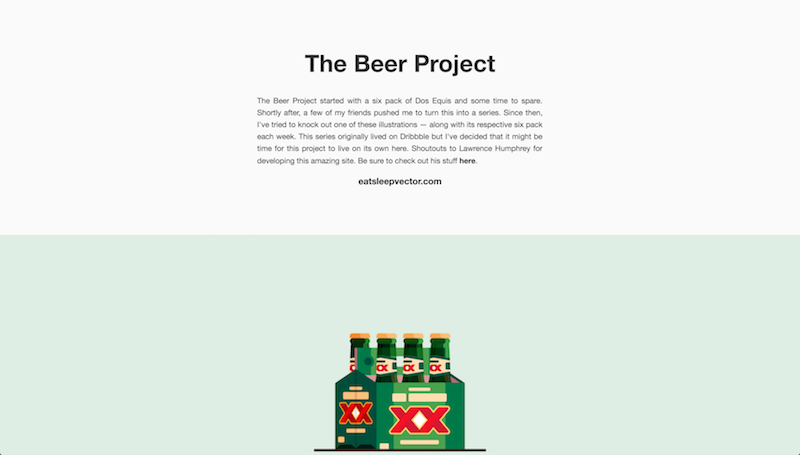
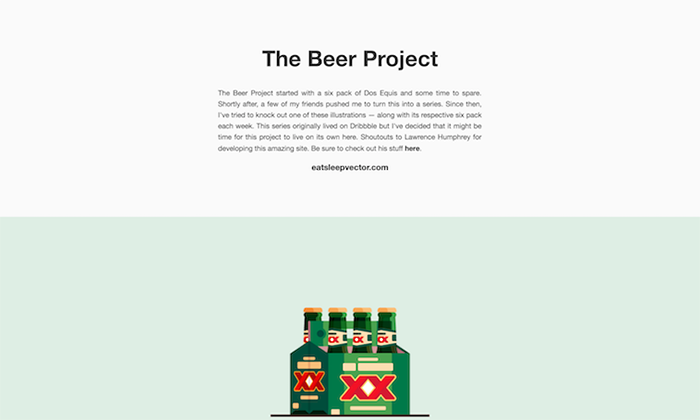
landing images responsive heights

Changed region(s): [[0.3, 0.2167, 0.69, 0.4024], [0.39, 0.7429, 0.6, 0.9905], [0.36, 0.1238, 0.63, 0.1857]]

diff --git a/dist/css/all.min.css b/dist/css/all.min.css
@@ -1,1 +1,1 @@
-/*! normalize.css v3.0.3 | MIT License | github.com/necolas/normalize.css */html{font-family:sans-serif;-ms-text-size-adjust:100%;-webkit-text-size-adjust:100%}body{margin:0}article,aside,details,figcaption,figure,footer,header,hgroup,main,menu,nav,section,summary{display:block}audio,canvas,progress,video{display:inline-block;vertical-align:baseline}audio:not([controls]){display:none;height:0}[hidden],template{display:none}a{background-color:transparent}a:active,a:hover{outline:0}abbr[title]{border-bottom:1px dotted}b,strong{font-weight:700}dfn{font-style:italic}h1{font-size:2em;margin:.67em 0}mark{background:#ff0;color:#000}small{font-size:80%}sub,sup{font-size:75%;line-height:0;position:relative;vertical-align:baseline}sup{top:-.5em}sub{bottom:-.25em}img{border:0}svg:not(:root){overflow:hidden}figure{margin:1em 40px}hr{box-sizing:content-box;height:0}pre{overflow:auto}code,kbd,pre,samp{font-family:monospace;font-size:1em}button,input,optgroup,select,textarea{color:inherit;font:inherit;margin:0}button{overflow:visible}button,select{text-transform:none}button,html input[type=button],input[type=reset],input[type=submit]{-webkit-appearance:button;cursor:pointer}button[disabled],html input[disabled]{cursor:default}button::-moz-focus-inner,input::-moz-focus-inner{border:0;padding:0}input{line-height:normal}input[type=checkbox],input[type=radio]{box-sizing:border-box;padding:0}input[type=number]::-webkit-inner-spin-button,input[type=number]::-webkit-outer-spin-button{height:auto}input[type=search]{-webkit-appearance:textfield;box-sizing:content-box}input[type=search]::-webkit-search-cancel-button,input[type=search]::-webkit-search-decoration{-webkit-appearance:none}fieldset{border:1px solid silver;margin:0 2px;padding:.35em .625em .75em}legend{border:0;padding:0}textarea{overflow:auto}optgroup{font-weight:700}table{border-collapse:collapse;border-spacing:0}td,th{padding:0}html{font-size:62.5%}body{font-size:1.6rem;line-height:2.56rem;overflow-x:hidden;text-rendering:optimizeLegibility;width:100vw}body,html{border:none}body,h1,h2,h3,h4,h5,h6,html,p{margin:0;padding:0}h1{line-height:1.3}h1,h2{font-family:Montserrat,Arial,sans-serif}h3{font-family:Hind,Arial,sans-serif;text-transform:uppercase}h4{color:hsla(0,0%,100%,.8);font-family:Montserrat,Arial,sans-serif}p{font-family:Hind,sans-serif;font-weight:300}a{border-bottom:1px solid rgba(255,82,82,0);color:#212121;text-decoration:none;transition:border-bottom .3s ease-in-out}ul{list-style:none;margin:0;padding:0}button{border:none;background-color:#fff}button::-moz-focus-inner{border:0}button:focus{outline:none}article{margin:0;padding:0}.body-wrapper{height:100%;min-height:100vh;min-width:100vw;overflow-x:hidden;overflow-y:hidden;-webkit-overflow-scrolling:touch;position:relative;width:100%}.body-wrapper>*{height:100%;left:0;overflow:auto;position:absolute;top:0;width:100%}.body-wrapper.scroll{overflow-y:auto}.accent{border-bottom:1px solid rgba(255,82,82,0);color:#ff5252;transition:border-bottom .3s ease-in-out}.accent:hover{border-bottom:1px solid #ff5252}.justify{text-align:justify}.hidden{display:none;opacity:0}.show{display:block;opacity:1}@-webkit-keyframes a{0%{display:none;opacity:0}1%{display:block}to{opacity:1}}@keyframes a{0%{display:none;opacity:0}1%{display:block}to{opacity:1}}@-webkit-keyframes b{0%{display:block;opacity:1}99%{opacity:0}to{display:none}}@keyframes b{0%{display:block;opacity:1}99%{opacity:0}to{display:none}}.fadeIn{-webkit-animation:a .5s ease-in-out;animation:a .5s ease-in-out;animation-fill-mode:forwards}.fadeIn,.fadeOut{-webkit-animation-fill-mode:forwards}.fadeOut{-webkit-animation:b .3s ease-out;animation:b .3s ease-out;animation-fill-mode:forwards}@media only screen and (max-width:1600px){html{font-size:52.5%}}@media only screen and (max-width:1200px){html{font-size:48.5%}}@media only screen and (max-width:992px){html{font-size:52.5%}}@media only screen and (max-width:768px){html{font-size:52.5%}}@media only screen and (max-width:480px){html{font-size:52.5%}}@media only screen and (min-device-width:320px) and (max-device-width:480px){html{font-size:52.5%}}.home{height:100%;overflow:hidden;margin:0;padding:0;width:100%}.me{background-color:#fff;color:#455a64;display:-webkit-flex;display:-ms-flexbox;display:flex;-webkit-flex-flow:column nowrap;-ms-flex-flow:column nowrap;flex-flow:column;-webkit-justify-content:center;-ms-flex-pack:center;justify-content:center;opacity:0;text-align:center;transition:opacity .3s ease-out;width:45%;will-change:opacity}.me>:not(.cta){margin:0 auto;max-width:60rem;width:90%}.me .elevate{padding-top:7vh}.me img{border-radius:50%;height:20rem;transition:height .3s ease-in-out,width .3s ease-in-out;transition-delay:.1s;width:20rem}.me .shrink{height:15rem;width:15rem}.me .blurb{margin-top:1.4rem;transition:opacity .4s ease-in-out}.me .blurb h2{margin:2rem 0 1.2rem}.me a:not(.cta){color:#ff5252}.me a:not(.cta):not(.link):hover{border-bottom:1px solid #ff5252}.interest{cursor:pointer}.link{text-decoration:none;transition:color .3s ease-in-out}.link:hover i{color:#ff5252}@media all and (max-width:768px){.me{margin:10% 0;width:100%}}@media all and (max-width:480px){.me img{height:15rem;width:15rem}}.portfolio{overflow:auto;position:relative;width:55%}.portfolio figure{color:#fff;cursor:pointer;height:51rem;margin:0;overflow:hidden;padding:0;position:relative;text-align:center;transition:height .3s ease-out;width:100%}.portfolio figure:before{background-color:transparent;content:'';height:100%;left:0;pointer-events:none;position:absolute;transition:background-color .3s ease-out;top:0;width:100%}.portfolio figure:hover figcaption{opacity:1;-webkit-transform:translate(-50%,-50%);transform:translate(-50%,-50%)}.portfolio .illicit:hover:before{background-color:#000}.portfolio .nowplaying:hover:before{background-color:#2185c5}.portfolio .map:hover:before{background-color:#f7685c}.portfolio .meme:hover:before{background-color:#e7c824}.portfolio .natalie:hover:before{background-color:#777}.portfolio .brewskies:hover:before{background-color:#007949}.portfolio .maelstrom:hover:before{background-color:#41d6c3}.portfolio .frank:hover:before{background-color:#000}.portfolio .mcplanr:hover:before{background-color:#c64747}.portfolio .neutral:hover:before{background-color:#f2d81c}.portfolio .oldsite:hover:before{background-color:#c2c388}.portfolio figcaption{left:50%;opacity:0;pointer-events:none;position:absolute;top:50%;-webkit-transform:translate(-50%,-35%);transform:translate(-50%,-35%);transition:opacity .3s ease-out,-webkit-transform .3s ease-out;transition:opacity .3s ease-out,transform .3s ease-out;transition:opacity .3s ease-out,transform .3s ease-out,-webkit-transform .3s ease-out}.portfolio img{height:100%;min-height:100%;transition:all .4s ease-out;width:100%}@media all and (max-width:1600px){.portfolio figure{height:51rem}}@media all and (max-width:1200px){.portfolio figure{height:46rem}}@media all and (max-width:768px){.portfolio{width:100%}.portfolio figure{height:44rem}}@media all and (max-width:480px){.portfolio figure{height:33rem}}@media all and (max-width:320px){.portfolio figure{height:31rem}}@-webkit-keyframes c{0%{background-color:#ff5252;box-shadow:0 .2rem .5rem 0 rgba(0,0,0,.26);color:#fff}to{background-color:#fff;box-shadow:none;color:#ff5252}}@keyframes c{0%{background-color:#ff5252;box-shadow:0 .2rem .5rem 0 rgba(0,0,0,.26);color:#fff}to{background-color:#fff;box-shadow:none;color:#ff5252}}.cta{background-color:#ff5252;border-radius:.2rem;box-shadow:0 .2rem .5rem 0 rgba(0,0,0,.26);color:#fff;display:inline-block;font-family:Hind,sans-serif;margin:2.2rem auto 0;max-width:12rem;overflow:hidden;padding:2rem;text-decoration:none;text-transform:uppercase;transition:width .8s ease-in-out,box-shadow .4s ease-out,background-color .3s ease-out;white-space:nowrap}.cta.flat{-webkit-animation:c .8s;animation:c .8s;-webkit-animation-fill-mode:forwards;animation-fill-mode:forwards}.cta:hover{background-color:#e54a4a;box-shadow:0 .6rem .7rem 0 rgba(0,0,0,.26)}.me .links{margin:3rem auto 0}.me .links a:not(:last-child){margin-right:.8rem}.me .links i{color:#455a64}@media only screen and (min-device-width:320px) and (max-device-width:480px){.me .links a{font-size:115%}.me .links a:not(:last-child){margin-right:1.8rem}}.project-page-wrapper{background-color:#fff;height:auto;left:0;min-height:100vh;overflow:scroll;position:absolute;-webkit-transform:translateX(100%);transform:translateX(100%);transition:-webkit-transform .5s cubic-bezier(.465,.183,.153,.946);transition:transform .5s cubic-bezier(.465,.183,.153,.946);transition:transform .5s cubic-bezier(.465,.183,.153,.946),-webkit-transform .5s cubic-bezier(.465,.183,.153,.946);top:0;width:100%;will-change:transform;z-index:3}.project-page-wrapper.show{-webkit-transform:translateX(0);transform:translateX(0)}.project-page-wrapper.hide{-webkit-transform:translateX(100%);transform:translateX(100%)}.project-page-wrapper a:hover{border-bottom:1px solid #212121}.project-page-wrapper .back i{-webkit-transform:translateX(0);transform:translateX(0);transition:all 3s ease-out}.project-page-wrapper .back:hover i{-webkit-transform:translateX(-5px);transform:translateX(-5px)}.project-page{background-color:#fff;border-radius:.2rem;margin:0 auto;margin-top:1rem;max-width:130rem;padding:.5rem 0;width:100%}.dropdown:hover li:nth-of-type(1),.dropdown h4:hover li:nth-of-type(1){-webkit-animation:.15s ease-out .05s a;animation:.15s ease-out .05s a;-webkit-animation-fill-mode:forwards;animation-fill-mode:forwards}.dropdown:hover li:nth-of-type(2),.dropdown h4:hover li:nth-of-type(2){-webkit-animation:.15s ease-out .08s a;animation:.15s ease-out .08s a;-webkit-animation-fill-mode:forwards;animation-fill-mode:forwards}.dropdown:hover li:nth-of-type(3),.dropdown h4:hover li:nth-of-type(3){-webkit-animation:.15s ease-out .11s a;animation:.15s ease-out .11s a;-webkit-animation-fill-mode:forwards;animation-fill-mode:forwards}.dropdown:hover li:nth-of-type(4),.dropdown h4:hover li:nth-of-type(4){-webkit-animation:.15s ease-out .14s a;animation:.15s ease-out .14s a;-webkit-animation-fill-mode:forwards;animation-fill-mode:forwards}.dropdown:hover li:nth-of-type(5),.dropdown h4:hover li:nth-of-type(5){-webkit-animation:.15s ease-out .17s a;animation:.15s ease-out .17s a;-webkit-animation-fill-mode:forwards;animation-fill-mode:forwards}.dropdown:hover li:nth-of-type(6),.dropdown h4:hover li:nth-of-type(6){-webkit-animation:.15s ease-out .2s a;animation:.15s ease-out .2s a;-webkit-animation-fill-mode:forwards;animation-fill-mode:forwards}.dropdown:hover li:nth-of-type(7),.dropdown h4:hover li:nth-of-type(7){-webkit-animation:.15s ease-out .23s a;animation:.15s ease-out .23s a;-webkit-animation-fill-mode:forwards;animation-fill-mode:forwards}.dropdown:hover li:nth-of-type(8),.dropdown h4:hover li:nth-of-type(8){-webkit-animation:.15s ease-out .26s a;animation:.15s ease-out .26s a;-webkit-animation-fill-mode:forwards;animation-fill-mode:forwards}.dropdown:hover li:nth-of-type(9),.dropdown h4:hover li:nth-of-type(9){-webkit-animation:.15s ease-out .29s a;animation:.15s ease-out .29s a;-webkit-animation-fill-mode:forwards;animation-fill-mode:forwards}.top-bar{display:-webkit-flex;display:-ms-flexbox;display:flex;-webkit-flex-flow:row nowrap;-ms-flex-flow:row nowrap;flex-flow:row;margin:3rem auto 2rem;max-width:120rem;width:90%}.top-bar>div{-webkit-flex:1 0 auto;-ms-flex:1 0 auto;flex:1 0 auto}.top-bar .left button{padding-left:0}.top-bar .right{text-align:right}.top-bar i:not(.fa-angle-down){cursor:pointer;margin-left:1rem;transition:color .2s ease-out}.top-bar i:not(.fa-angle-down):not(.arrow){color:#ccc}.top-bar i:not(.fa-angle-down).selected{color:#333}.top-bar i:not(.fa-angle-down):hover{color:#444}@media screen and (max-width:900.4px){[data-device=tablet]{display:none}}@media screen and (max-width:1118px){[data-device=laptop]{display:none}}.dropdown{box-shadow:0 6px 12px transparent,0 10px 40px transparent;cursor:pointer;display:block;left:50%;margin:0;margin-top:-1.2rem;max-width:30rem;padding:1.2rem 2.4rem;position:absolute;-webkit-transform:translateX(-50%);transform:translateX(-50%);transition:box-shadow .25s ease-out;text-align:center;width:55%;z-index:3}.dropdown h4{color:#333}.dropdown ul{display:none;left:50%;margin:0 auto;padding:0;position:relative;top:0;-webkit-transform:translateX(-50%);transform:translateX(-50%);width:100%}.dropdown li{background-color:#fff;opacity:0;padding:1.2rem 0;width:100%}.dropdown .fa{transition:all .1s}.dropdown:hover{background-color:#fff;box-shadow:0 6px 12px rgba(0,0,0,.23),0 10px 40px rgba(0,0,0,.19)}.dropdown:hover ul{display:block}.dropdown:hover .fa-angle-down{-webkit-transform:rotate(-180deg);transform:rotate(-180deg)}.dropdown [data-project]:hover{color:#f5f5f5}.dropdown [data-project=illicit]:hover{background-color:#000}.dropdown [data-project=nowplaying]:hover{background-color:#2185c5}.dropdown [data-project=map]:hover{background-color:#f7685c}.dropdown [data-project=meme]:hover{background-color:#e7c824}.dropdown [data-project=natalie]:hover{background-color:#777}.dropdown [data-project=brewskies]:hover{background-color:#007949}.dropdown [data-project=maelstrom]:hover{background-color:#41d6c3}.dropdown [data-project=frank]:hover{background-color:#000}.dropdown [data-project=mcplanr]:hover{background-color:#c64747}.dropdown [data-project=neutral]:hover{background-color:#f2d81c}.dropdown [data-project=oldsite]:hover{background-color:#c2c388}.iframe-container{display:-webkit-flex;display:-ms-flexbox;display:flex;-webkit-flex-flow:row wrap-reverse;-ms-flex-flow:row wrap-reverse;flex-flow:row wrap-reverse;-webkit-justify-content:center;-ms-flex-pack:center;justify-content:center}.iframe-container>*{-webkit-flex:initial;-ms-flex:initial;flex:initial}.iframe-container .other-sites{color:#ccc}.iframe-container .site{cursor:pointer;margin-bottom:1rem;transition:color .2s ease-out}.iframe-container .selected,.iframe-container .site:hover{color:#333}.container{box-shadow:0 3px 12px rgba(0,0,0,.23),0 3px 12px rgba(0,0,0,.16);margin-top:2rem;opacity:0;overflow:initial;padding-bottom:5rem;-webkit-transform:translateY(20px);transform:translateY(20px);transition:opacity .4s ease-out,width .3s ease-out,-webkit-transform .4s ease-out;transition:opacity .4s ease-out,transform .4s ease-out,width .3s ease-out;transition:opacity .4s ease-out,transform .4s ease-out,width .3s ease-out,-webkit-transform .4s ease-out;width:80%;will-change:opacity,transform}.container.active{opacity:1;-webkit-transform:translateY(0);transform:translateY(0);transition:opacity .4s ease-out .93s,width .3s ease-out,-webkit-transform .4s ease-out .93s;transition:opacity .4s ease-out .93s,transform .4s ease-out .93s,width .3s ease-out;transition:opacity .4s ease-out .93s,transform .4s ease-out .93s,width .3s ease-out,-webkit-transform .4s ease-out .93s}.container.phone{width:306px;height:544px}.container.tablet{width:870.4px;height:652.8px}.container.laptop{width:1088px;height:612px}.container.desktop{width:1600px;height:900px}.address-container{-webkit-align-content:center;-ms-flex-line-pack:center;align-content:center;-webkit-align-items:center;-ms-flex-align:center;align-items:center;background:#f5f5f5;box-shadow:0 1px 3px 0 rgba(0,0,0,.25),0 0 5px 0 rgba(0,0,0,.2);display:-webkit-flex;display:-ms-flexbox;display:flex;padding-left:1rem;position:relative;height:5rem;width:calc(100% - 1rem);z-index:1}.address{border:none;border-radius:2px;box-shadow:0 2px 2px 0 rgba(0,0,0,.15),0 3px 1px -2px rgba(0,0,0,.2),0 1px 5px 0 rgba(0,0,0,.1);font-family:Roboto,Helvetica Neue,Helvetica,sans-serif;font-size:1.5rem;height:3rem;outline:0;padding:0 .5rem;transition:.25s cubic-bezier(.2,.2,.2,1);width:calc(100% - 8rem);z-index:2}.address:focus{box-shadow:0 3px 4px 0 rgba(0,0,0,.15),0 3px 3px -2px rgba(0,0,0,.2),0 1px 8px 0 rgba(0,0,0,.1);outline:none}.scroll-wrapper{height:100%;margin:0;-webkit-overflow-scrolling:touch;padding:0;width:100%}iframe{height:100%;max-width:100%;width:100%}.descriptions{margin:7rem auto 10rem;max-width:600px;text-align:center;width:75%}.descriptions h2{margin-bottom:1rem}.descriptions p{line-height:1.7}.descriptions a{font-weight:500}.descriptions .left,.descriptions .right{display:inline-block;vertical-align:top;width:48%}.descriptions .left{margin-right:2%;text-align:right}.descriptions .right{text-align:left}.descriptions .full-site{padding-bottom:3px}.descriptions .illicit .full-site{color:#000}.descriptions .illicit .full-site:hover{border-bottom:1px solid #000}.descriptions .nowplaying .full-site{color:#2185c5}.descriptions .nowplaying .full-site:hover{border-bottom:1px solid #2185c5}.descriptions .map .full-site{color:#f7685c}.descriptions .map .full-site:hover{border-bottom:1px solid #f7685c}.descriptions .meme .full-site{color:#e7c824}.descriptions .meme .full-site:hover{border-bottom:1px solid #e7c824}.descriptions .natalie .full-site{color:#777}.descriptions .natalie .full-site:hover{border-bottom:1px solid #777}.descriptions .brewskies .full-site{color:#007949}.descriptions .brewskies .full-site:hover{border-bottom:1px solid #007949}.descriptions .maelstrom .full-site{color:#41d6c3}.descriptions .maelstrom .full-site:hover{border-bottom:1px solid #41d6c3}.descriptions .frank .full-site{color:#000}.descriptions .frank .full-site:hover{border-bottom:1px solid #000}.descriptions .mcplanr .full-site{color:#c64747}.descriptions .mcplanr .full-site:hover{border-bottom:1px solid #c64747}.descriptions .neutral .full-site{color:#f2d81c}.descriptions .neutral .full-site:hover{border-bottom:1px solid #f2d81c}.descriptions .oldsite .full-site{color:#c2c388}.descriptions .oldsite .full-site:hover{border-bottom:1px solid #c2c388}.summary{opacity:.7}.contributors{width:100%}.contributors li{font-weight:lighter}.home>section{float:left;height:100vh}@media all and (max-width:767px){.home{overflow:auto}.home>section{display:block;float:none;height:auto;width:100%}}
+/*! normalize.css v3.0.3 | MIT License | github.com/necolas/normalize.css */html{font-family:sans-serif;-ms-text-size-adjust:100%;-webkit-text-size-adjust:100%}body{margin:0}article,aside,details,figcaption,figure,footer,header,hgroup,main,menu,nav,section,summary{display:block}audio,canvas,progress,video{display:inline-block;vertical-align:baseline}audio:not([controls]){display:none;height:0}[hidden],template{display:none}a{background-color:transparent}a:active,a:hover{outline:0}abbr[title]{border-bottom:1px dotted}b,strong{font-weight:700}dfn{font-style:italic}h1{font-size:2em;margin:.67em 0}mark{background:#ff0;color:#000}small{font-size:80%}sub,sup{font-size:75%;line-height:0;position:relative;vertical-align:baseline}sup{top:-.5em}sub{bottom:-.25em}img{border:0}svg:not(:root){overflow:hidden}figure{margin:1em 40px}hr{box-sizing:content-box;height:0}pre{overflow:auto}code,kbd,pre,samp{font-family:monospace;font-size:1em}button,input,optgroup,select,textarea{color:inherit;font:inherit;margin:0}button{overflow:visible}button,select{text-transform:none}button,html input[type=button],input[type=reset],input[type=submit]{-webkit-appearance:button;cursor:pointer}button[disabled],html input[disabled]{cursor:default}button::-moz-focus-inner,input::-moz-focus-inner{border:0;padding:0}input{line-height:normal}input[type=checkbox],input[type=radio]{box-sizing:border-box;padding:0}input[type=number]::-webkit-inner-spin-button,input[type=number]::-webkit-outer-spin-button{height:auto}input[type=search]{-webkit-appearance:textfield;box-sizing:content-box}input[type=search]::-webkit-search-cancel-button,input[type=search]::-webkit-search-decoration{-webkit-appearance:none}fieldset{border:1px solid silver;margin:0 2px;padding:.35em .625em .75em}legend{border:0;padding:0}textarea{overflow:auto}optgroup{font-weight:700}table{border-collapse:collapse;border-spacing:0}td,th{padding:0}html{font-size:62.5%}body{font-size:1.6rem;line-height:2.56rem;overflow-x:hidden;text-rendering:optimizeLegibility;width:100vw}body,html{border:none}body,h1,h2,h3,h4,h5,h6,html,p{margin:0;padding:0}h1{line-height:1.3}h1,h2{font-family:Montserrat,Arial,sans-serif}h3{font-family:Hind,Arial,sans-serif;text-transform:uppercase}h4{color:hsla(0,0%,100%,.8);font-family:Montserrat,Arial,sans-serif}p{font-family:Hind,sans-serif;font-weight:300}a{border-bottom:1px solid rgba(255,82,82,0);color:#212121;text-decoration:none;transition:border-bottom .3s ease-in-out}ul{list-style:none;margin:0;padding:0}button{border:none;background-color:#fff}button::-moz-focus-inner{border:0}button:focus{outline:none}article{margin:0;padding:0}.body-wrapper{height:100%;min-height:100vh;min-width:100vw;overflow-x:hidden;overflow-y:hidden;-webkit-overflow-scrolling:touch;position:relative;width:100%}.body-wrapper>*{height:100%;left:0;overflow:auto;position:absolute;top:0;width:100%}.body-wrapper.scroll{overflow-y:auto}.accent{border-bottom:1px solid rgba(255,82,82,0);color:#ff5252;transition:border-bottom .3s ease-in-out}.accent:hover{border-bottom:1px solid #ff5252}.justify{text-align:justify}.hidden{display:none;opacity:0}.show{display:block;opacity:1}@-webkit-keyframes a{0%{display:none;opacity:0}1%{display:block}to{opacity:1}}@keyframes a{0%{display:none;opacity:0}1%{display:block}to{opacity:1}}@-webkit-keyframes b{0%{display:block;opacity:1}99%{opacity:0}to{display:none}}@keyframes b{0%{display:block;opacity:1}99%{opacity:0}to{display:none}}.fadeIn{-webkit-animation:a .5s ease-in-out;animation:a .5s ease-in-out;animation-fill-mode:forwards}.fadeIn,.fadeOut{-webkit-animation-fill-mode:forwards}.fadeOut{-webkit-animation:b .3s ease-out;animation:b .3s ease-out;animation-fill-mode:forwards}@media only screen and (max-width:1600px){html{font-size:52.5%}}@media only screen and (max-width:1200px){html{font-size:48.5%}}@media only screen and (max-width:992px){html{font-size:52.5%}}@media only screen and (max-width:768px){html{font-size:52.5%}}@media only screen and (max-width:480px){html{font-size:52.5%}}@media only screen and (min-device-width:320px) and (max-device-width:480px){html{font-size:52.5%}}.home{height:100%;overflow:hidden;margin:0;padding:0;width:100%}.me{background-color:#fff;color:#455a64;display:-webkit-flex;display:-ms-flexbox;display:flex;-webkit-flex-flow:column nowrap;-ms-flex-flow:column nowrap;flex-flow:column;-webkit-justify-content:center;-ms-flex-pack:center;justify-content:center;opacity:0;text-align:center;transition:opacity .3s ease-out;width:45%;will-change:opacity}.me>:not(.cta){margin:0 auto;max-width:60rem;width:90%}.me .elevate{padding-top:7vh}.me img{border-radius:50%;height:20rem;transition:height .3s ease-in-out,width .3s ease-in-out;transition-delay:.1s;width:20rem}.me .shrink{height:15rem;width:15rem}.me .blurb{margin-top:1.4rem;transition:opacity .4s ease-in-out}.me .blurb h2{margin:2rem 0 1.2rem}.me a:not(.cta){color:#ff5252}.me a:not(.cta):not(.link):hover{border-bottom:1px solid #ff5252}.interest{cursor:pointer}.link{text-decoration:none;transition:color .3s ease-in-out}.link:hover i{color:#ff5252}@media all and (max-width:768px){.me{margin:10% 0;width:100%}}@media all and (max-width:480px){.me img{height:15rem;width:15rem}}.portfolio{overflow:auto;position:relative;width:55%}.portfolio figure{color:#fff;cursor:pointer;margin:-1rem 0 0;overflow:hidden;padding:0;position:relative;text-align:center;transition:height .3s ease-out;width:100%}.portfolio figure:before{background-color:transparent;content:'';height:100%;left:0;pointer-events:none;position:absolute;transition:background-color .3s ease-out;top:0;width:100%}.portfolio figure:hover figcaption{opacity:1;-webkit-transform:translate(-50%,-50%);transform:translate(-50%,-50%)}.portfolio .illicit:hover:before{background-color:#000}.portfolio .nowplaying:hover:before{background-color:#2185c5}.portfolio .map:hover:before{background-color:#f7685c}.portfolio .meme:hover:before{background-color:#e7c824}.portfolio .natalie:hover:before{background-color:#777}.portfolio .brewskies:hover:before{background-color:#007949}.portfolio .maelstrom:hover:before{background-color:#41d6c3}.portfolio .frank:hover:before{background-color:#000}.portfolio .mcplanr:hover:before{background-color:#c64747}.portfolio .neutral:hover:before{background-color:#f2d81c}.portfolio .oldsite:hover:before{background-color:#c2c388}.portfolio figcaption{left:50%;opacity:0;pointer-events:none;position:absolute;top:50%;-webkit-transform:translate(-50%,-35%);transform:translate(-50%,-35%);transition:opacity .3s ease-out,-webkit-transform .3s ease-out;transition:opacity .3s ease-out,transform .3s ease-out;transition:opacity .3s ease-out,transform .3s ease-out,-webkit-transform .3s ease-out}.portfolio img{display:block;height:100%;min-height:100%;transition:all .4s ease-out;vertical-align:top;width:100%}@media all and (max-width:768px){.portfolio{width:100%}}@-webkit-keyframes c{0%{background-color:#ff5252;box-shadow:0 .2rem .5rem 0 rgba(0,0,0,.26);color:#fff}to{background-color:#fff;box-shadow:none;color:#ff5252}}@keyframes c{0%{background-color:#ff5252;box-shadow:0 .2rem .5rem 0 rgba(0,0,0,.26);color:#fff}to{background-color:#fff;box-shadow:none;color:#ff5252}}.cta{background-color:#ff5252;border-radius:.2rem;box-shadow:0 .2rem .5rem 0 rgba(0,0,0,.26);color:#fff;display:inline-block;font-family:Hind,sans-serif;margin:2.2rem auto 0;max-width:12rem;overflow:hidden;padding:2rem;text-decoration:none;text-transform:uppercase;transition:width .8s ease-in-out,box-shadow .4s ease-out,background-color .3s ease-out;white-space:nowrap}.cta.flat{-webkit-animation:c .8s;animation:c .8s;-webkit-animation-fill-mode:forwards;animation-fill-mode:forwards}.cta:hover{background-color:#e54a4a;box-shadow:0 .6rem .7rem 0 rgba(0,0,0,.26)}.me .links{margin:3rem auto 0}.me .links a:not(:last-child){margin-right:.8rem}.me .links i{color:#455a64}@media only screen and (min-device-width:320px) and (max-device-width:480px){.me .links a{font-size:115%}.me .links a:not(:last-child){margin-right:1.8rem}}.project-page-wrapper{background-color:#fff;height:auto;left:0;min-height:100vh;overflow:scroll;position:absolute;-webkit-transform:translateX(100%);transform:translateX(100%);transition:-webkit-transform .5s cubic-bezier(.465,.183,.153,.946);transition:transform .5s cubic-bezier(.465,.183,.153,.946);transition:transform .5s cubic-bezier(.465,.183,.153,.946),-webkit-transform .5s cubic-bezier(.465,.183,.153,.946);top:0;width:100%;will-change:transform;z-index:3}.project-page-wrapper.show{-webkit-transform:translateX(0);transform:translateX(0)}.project-page-wrapper.hide{-webkit-transform:translateX(100%);transform:translateX(100%)}.project-page-wrapper a:hover{border-bottom:1px solid #212121}.project-page-wrapper .back i{-webkit-transform:translateX(0);transform:translateX(0);transition:all 3s ease-out}.project-page-wrapper .back:hover i{-webkit-transform:translateX(-5px);transform:translateX(-5px)}.project-page{background-color:#fff;border-radius:.2rem;margin:0 auto;margin-top:1rem;max-width:130rem;padding:.5rem 0;width:100%}.dropdown:hover li:nth-of-type(1),.dropdown h4:hover li:nth-of-type(1){-webkit-animation:.15s ease-out .05s a;animation:.15s ease-out .05s a;-webkit-animation-fill-mode:forwards;animation-fill-mode:forwards}.dropdown:hover li:nth-of-type(2),.dropdown h4:hover li:nth-of-type(2){-webkit-animation:.15s ease-out .08s a;animation:.15s ease-out .08s a;-webkit-animation-fill-mode:forwards;animation-fill-mode:forwards}.dropdown:hover li:nth-of-type(3),.dropdown h4:hover li:nth-of-type(3){-webkit-animation:.15s ease-out .11s a;animation:.15s ease-out .11s a;-webkit-animation-fill-mode:forwards;animation-fill-mode:forwards}.dropdown:hover li:nth-of-type(4),.dropdown h4:hover li:nth-of-type(4){-webkit-animation:.15s ease-out .14s a;animation:.15s ease-out .14s a;-webkit-animation-fill-mode:forwards;animation-fill-mode:forwards}.dropdown:hover li:nth-of-type(5),.dropdown h4:hover li:nth-of-type(5){-webkit-animation:.15s ease-out .17s a;animation:.15s ease-out .17s a;-webkit-animation-fill-mode:forwards;animation-fill-mode:forwards}.dropdown:hover li:nth-of-type(6),.dropdown h4:hover li:nth-of-type(6){-webkit-animation:.15s ease-out .2s a;animation:.15s ease-out .2s a;-webkit-animation-fill-mode:forwards;animation-fill-mode:forwards}.dropdown:hover li:nth-of-type(7),.dropdown h4:hover li:nth-of-type(7){-webkit-animation:.15s ease-out .23s a;animation:.15s ease-out .23s a;-webkit-animation-fill-mode:forwards;animation-fill-mode:forwards}.dropdown:hover li:nth-of-type(8),.dropdown h4:hover li:nth-of-type(8){-webkit-animation:.15s ease-out .26s a;animation:.15s ease-out .26s a;-webkit-animation-fill-mode:forwards;animation-fill-mode:forwards}.dropdown:hover li:nth-of-type(9),.dropdown h4:hover li:nth-of-type(9){-webkit-animation:.15s ease-out .29s a;animation:.15s ease-out .29s a;-webkit-animation-fill-mode:forwards;animation-fill-mode:forwards}.top-bar{display:-webkit-flex;display:-ms-flexbox;display:flex;-webkit-flex-flow:row nowrap;-ms-flex-flow:row nowrap;flex-flow:row;margin:3rem auto 2rem;max-width:120rem;width:90%}.top-bar>div{-webkit-flex:1 0 auto;-ms-flex:1 0 auto;flex:1 0 auto}.top-bar .left button{padding-left:0}.top-bar .right{text-align:right}.top-bar i:not(.fa-angle-down){cursor:pointer;margin-left:1rem;transition:color .2s ease-out}.top-bar i:not(.fa-angle-down):not(.arrow){color:#ccc}.top-bar i:not(.fa-angle-down).selected{color:#333}.top-bar i:not(.fa-angle-down):hover{color:#444}@media screen and (max-width:900.4px){[data-device=tablet]{display:none}}@media screen and (max-width:1118px){[data-device=laptop]{display:none}}.dropdown{box-shadow:0 6px 12px transparent,0 10px 40px transparent;cursor:pointer;display:block;left:50%;margin:0;margin-top:-1.2rem;max-width:30rem;padding:1.2rem 2.4rem;position:absolute;-webkit-transform:translateX(-50%);transform:translateX(-50%);transition:box-shadow .25s ease-out;text-align:center;width:55%;z-index:3}.dropdown h4{color:#333}.dropdown ul{display:none;left:50%;margin:0 auto;padding:0;position:relative;top:0;-webkit-transform:translateX(-50%);transform:translateX(-50%);width:100%}.dropdown li{background-color:#fff;opacity:0;padding:1.2rem 0;width:100%}.dropdown .fa{transition:all .1s}.dropdown:hover{background-color:#fff;box-shadow:0 6px 12px rgba(0,0,0,.23),0 10px 40px rgba(0,0,0,.19)}.dropdown:hover ul{display:block}.dropdown:hover .fa-angle-down{-webkit-transform:rotate(-180deg);transform:rotate(-180deg)}.dropdown [data-project]:hover{color:#f5f5f5}.dropdown [data-project=illicit]:hover{background-color:#000}.dropdown [data-project=nowplaying]:hover{background-color:#2185c5}.dropdown [data-project=map]:hover{background-color:#f7685c}.dropdown [data-project=meme]:hover{background-color:#e7c824}.dropdown [data-project=natalie]:hover{background-color:#777}.dropdown [data-project=brewskies]:hover{background-color:#007949}.dropdown [data-project=maelstrom]:hover{background-color:#41d6c3}.dropdown [data-project=frank]:hover{background-color:#000}.dropdown [data-project=mcplanr]:hover{background-color:#c64747}.dropdown [data-project=neutral]:hover{background-color:#f2d81c}.dropdown [data-project=oldsite]:hover{background-color:#c2c388}.iframe-container{display:-webkit-flex;display:-ms-flexbox;display:flex;-webkit-flex-flow:row wrap-reverse;-ms-flex-flow:row wrap-reverse;flex-flow:row wrap-reverse;-webkit-justify-content:center;-ms-flex-pack:center;justify-content:center}.iframe-container>*{-webkit-flex:initial;-ms-flex:initial;flex:initial}.iframe-container .other-sites{color:#ccc}.iframe-container .site{cursor:pointer;margin-bottom:1rem;transition:color .2s ease-out}.iframe-container .selected,.iframe-container .site:hover{color:#333}.container{box-shadow:0 3px 12px rgba(0,0,0,.23),0 3px 12px rgba(0,0,0,.16);margin-top:2rem;opacity:0;overflow:initial;padding-bottom:5rem;-webkit-transform:translateY(20px);transform:translateY(20px);transition:opacity .4s ease-out,width .3s ease-out,-webkit-transform .4s ease-out;transition:opacity .4s ease-out,transform .4s ease-out,width .3s ease-out;transition:opacity .4s ease-out,transform .4s ease-out,width .3s ease-out,-webkit-transform .4s ease-out;width:80%;will-change:opacity,transform}.container.active{opacity:1;-webkit-transform:translateY(0);transform:translateY(0);transition:opacity .4s ease-out .93s,width .3s ease-out,-webkit-transform .4s ease-out .93s;transition:opacity .4s ease-out .93s,transform .4s ease-out .93s,width .3s ease-out;transition:opacity .4s ease-out .93s,transform .4s ease-out .93s,width .3s ease-out,-webkit-transform .4s ease-out .93s}.container.phone{width:306px;height:544px}.container.tablet{width:870.4px;height:652.8px}.container.laptop{width:1088px;height:612px}.container.desktop{width:1600px;height:900px}.address-container{-webkit-align-content:center;-ms-flex-line-pack:center;align-content:center;-webkit-align-items:center;-ms-flex-align:center;align-items:center;background:#f5f5f5;box-shadow:0 1px 3px 0 rgba(0,0,0,.25),0 0 5px 0 rgba(0,0,0,.2);display:-webkit-flex;display:-ms-flexbox;display:flex;padding-left:1rem;position:relative;height:5rem;width:calc(100% - 1rem);z-index:1}.address{border:none;border-radius:2px;box-shadow:0 2px 2px 0 rgba(0,0,0,.15),0 3px 1px -2px rgba(0,0,0,.2),0 1px 5px 0 rgba(0,0,0,.1);font-family:Roboto,Helvetica Neue,Helvetica,sans-serif;font-size:1.5rem;height:3rem;outline:0;padding:0 .5rem;transition:.25s cubic-bezier(.2,.2,.2,1);width:calc(100% - 8rem);z-index:2}.address:focus{box-shadow:0 3px 4px 0 rgba(0,0,0,.15),0 3px 3px -2px rgba(0,0,0,.2),0 1px 8px 0 rgba(0,0,0,.1);outline:none}.scroll-wrapper{height:100%;margin:0;-webkit-overflow-scrolling:touch;padding:0;width:100%}iframe{height:100%;max-width:100%;width:100%}.descriptions{margin:7rem auto 10rem;max-width:600px;text-align:center;width:75%}.descriptions h2{margin-bottom:1rem}.descriptions p{line-height:1.7}.descriptions a{font-weight:500}.descriptions .left,.descriptions .right{display:inline-block;vertical-align:top;width:48%}.descriptions .left{margin-right:2%;text-align:right}.descriptions .right{text-align:left}.descriptions .full-site{padding-bottom:3px}.descriptions .illicit .full-site{color:#000}.descriptions .illicit .full-site:hover{border-bottom:1px solid #000}.descriptions .nowplaying .full-site{color:#2185c5}.descriptions .nowplaying .full-site:hover{border-bottom:1px solid #2185c5}.descriptions .map .full-site{color:#f7685c}.descriptions .map .full-site:hover{border-bottom:1px solid #f7685c}.descriptions .meme .full-site{color:#e7c824}.descriptions .meme .full-site:hover{border-bottom:1px solid #e7c824}.descriptions .natalie .full-site{color:#777}.descriptions .natalie .full-site:hover{border-bottom:1px solid #777}.descriptions .brewskies .full-site{color:#007949}.descriptions .brewskies .full-site:hover{border-bottom:1px solid #007949}.descriptions .maelstrom .full-site{color:#41d6c3}.descriptions .maelstrom .full-site:hover{border-bottom:1px solid #41d6c3}.descriptions .frank .full-site{color:#000}.descriptions .frank .full-site:hover{border-bottom:1px solid #000}.descriptions .mcplanr .full-site{color:#c64747}.descriptions .mcplanr .full-site:hover{border-bottom:1px solid #c64747}.descriptions .neutral .full-site{color:#f2d81c}.descriptions .neutral .full-site:hover{border-bottom:1px solid #f2d81c}.descriptions .oldsite .full-site{color:#c2c388}.descriptions .oldsite .full-site:hover{border-bottom:1px solid #c2c388}.summary{opacity:.7}.contributors{width:100%}.contributors li{font-weight:lighter}.home>section{float:left;height:100vh}@media all and (max-width:767px){.home{overflow:auto}.home>section{display:block;float:none;height:auto;width:100%}}

diff --git a/dev/css/main.css b/dev/css/main.css
@@ -598,8 +598,7 @@ article {
   .portfolio figure {
     color: #fff;
     cursor: pointer;
-    height: 51rem;
-    margin: 0;
+    margin: -1rem 0 0 0;
     overflow: hidden;
     padding: 0;
     position: relative;
@@ -656,32 +655,16 @@ article {
     transition: opacity .3s ease-out, transform .3s ease-out;
     transition: opacity .3s ease-out, transform .3s ease-out, -webkit-transform .3s ease-out; }
   .portfolio img {
+    display: block;
     height: 100%;
     min-height: 100%;
     transition: all .4s ease-out;
+    vertical-align: top;
     width: 100%; }
-
-@media all and (max-width: 1600px) {
-  .portfolio figure {
-    height: 51rem; } }
-
-@media all and (max-width: 1200px) {
-  .portfolio figure {
-    height: 46rem; } }
 
 @media all and (max-width: 768px) {
   .portfolio {
-    width: 100%; }
-    .portfolio figure {
-      height: 44rem; } }
-
-@media all and (max-width: 480px) {
-  .portfolio figure {
-    height: 33rem; } }
-
-@media all and (max-width: 320px) {
-  .portfolio figure {
-    height: 31rem; } }
+    width: 100%; } }
 
 @-webkit-keyframes fade-to-flat {
   0% {

diff --git a/dev/scss/partials/_project.scss b/dev/scss/partials/_project.scss
@@ -8,8 +8,8 @@
 		// backface-visibility: hidden;
 		color: #fff;
 		cursor: pointer;
-		height: 51rem;
-    margin: 0;
+		// height: 51rem;
+    margin: -1rem 0 0 0;
 		overflow: hidden;
     padding: 0;
     position: relative;
@@ -95,51 +95,17 @@
   img {
 		// -webkit-backface-visibility: hidden;
 		// backface-visibility: hidden;
+    display: block;
 		height: 100%;
 		min-height: 100%;
     transition: all .4s ease-out;
+    vertical-align: top;
 		width: 100%;
   }
-}
-
-@media all and (max-width: 1600px) {
-	.portfolio {
-		figure {
-			height: 51rem;
-		}
-	}
-}
-
-@media all and (max-width: 1200px) {
-	.portfolio {
-		figure {
-			height: 46rem;
-		}
-	}
 }
 
 @media all and (max-width: 768px) {
 	.portfolio {
 		width: 100%;
-
-		figure {
-			height: 44rem;
-		}
-	}
-}
-
-@media all and (max-width: 480px) {
-	.portfolio {
-		figure {
-			height: 33rem;
-		}
-	}
-}
-
-@media all and (max-width: 320px) {
-	.portfolio {
-		figure {
-			height: 31rem;
-		}
 	}
 }
